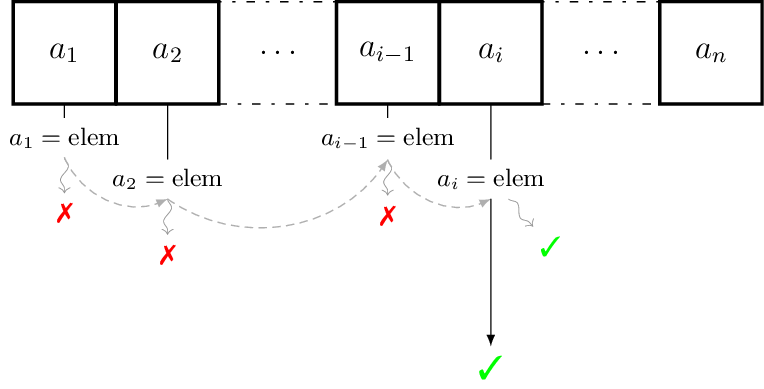
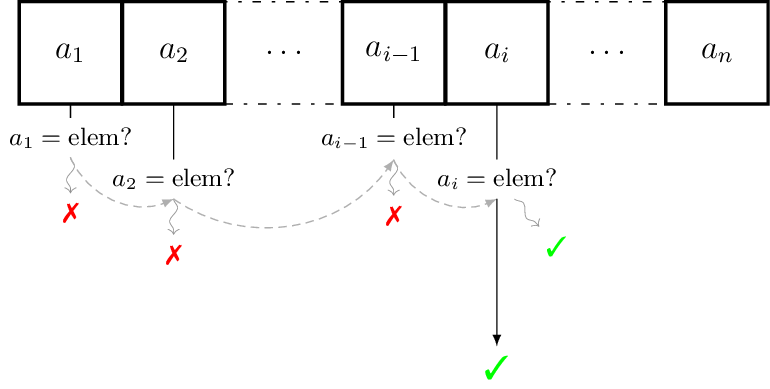
include ? in contains function

diff --git a/src/images/contains.tex b/src/images/contains.tex
@@ -18,7 +18,7 @@
   i-1/\false/0.5em/below,
   i/\true/2em/310}
 {
-  \node (pa\i) [predicate, align=center, below=\s of a\i, pin={[function result, pin position=\p] \d}] {$a_{\i} = \textrm{elem}$};
+  \node (pa\i) [predicate, align=center, below=\s of a\i, pin={[function result, pin position=\p] \d}] {$a_{\i} = \textrm{elem}?$};
   \draw (a\i) -- (pa\i);
 }
 
